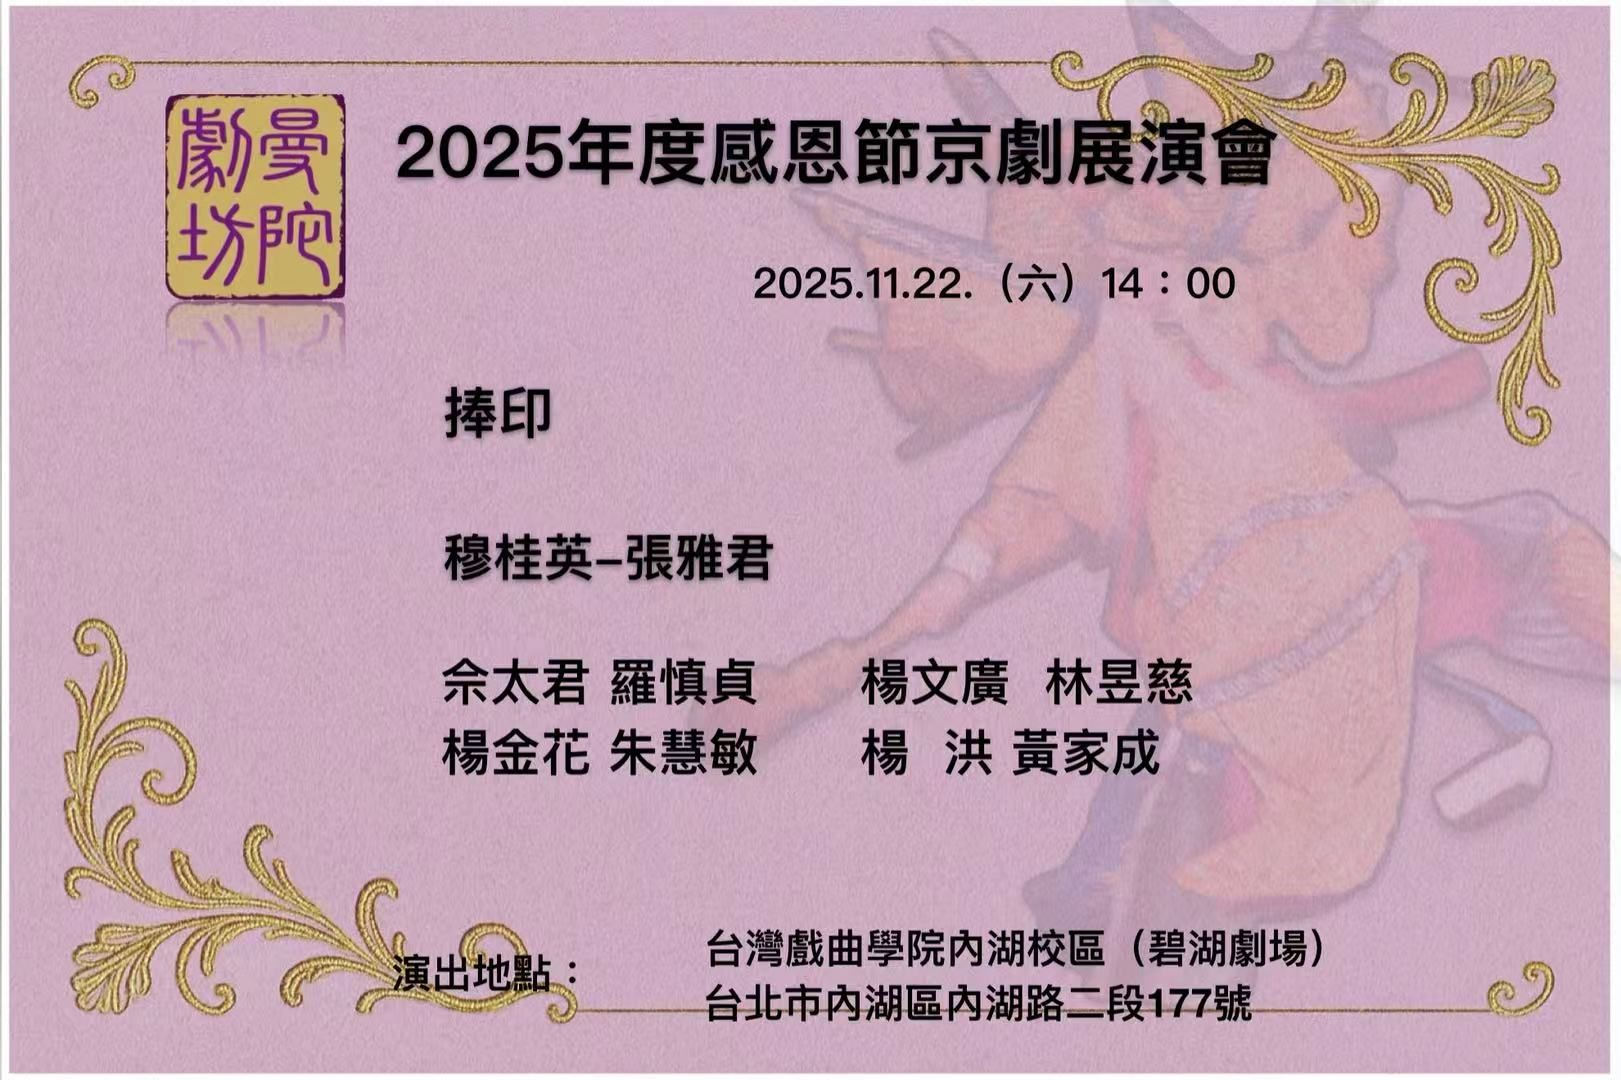
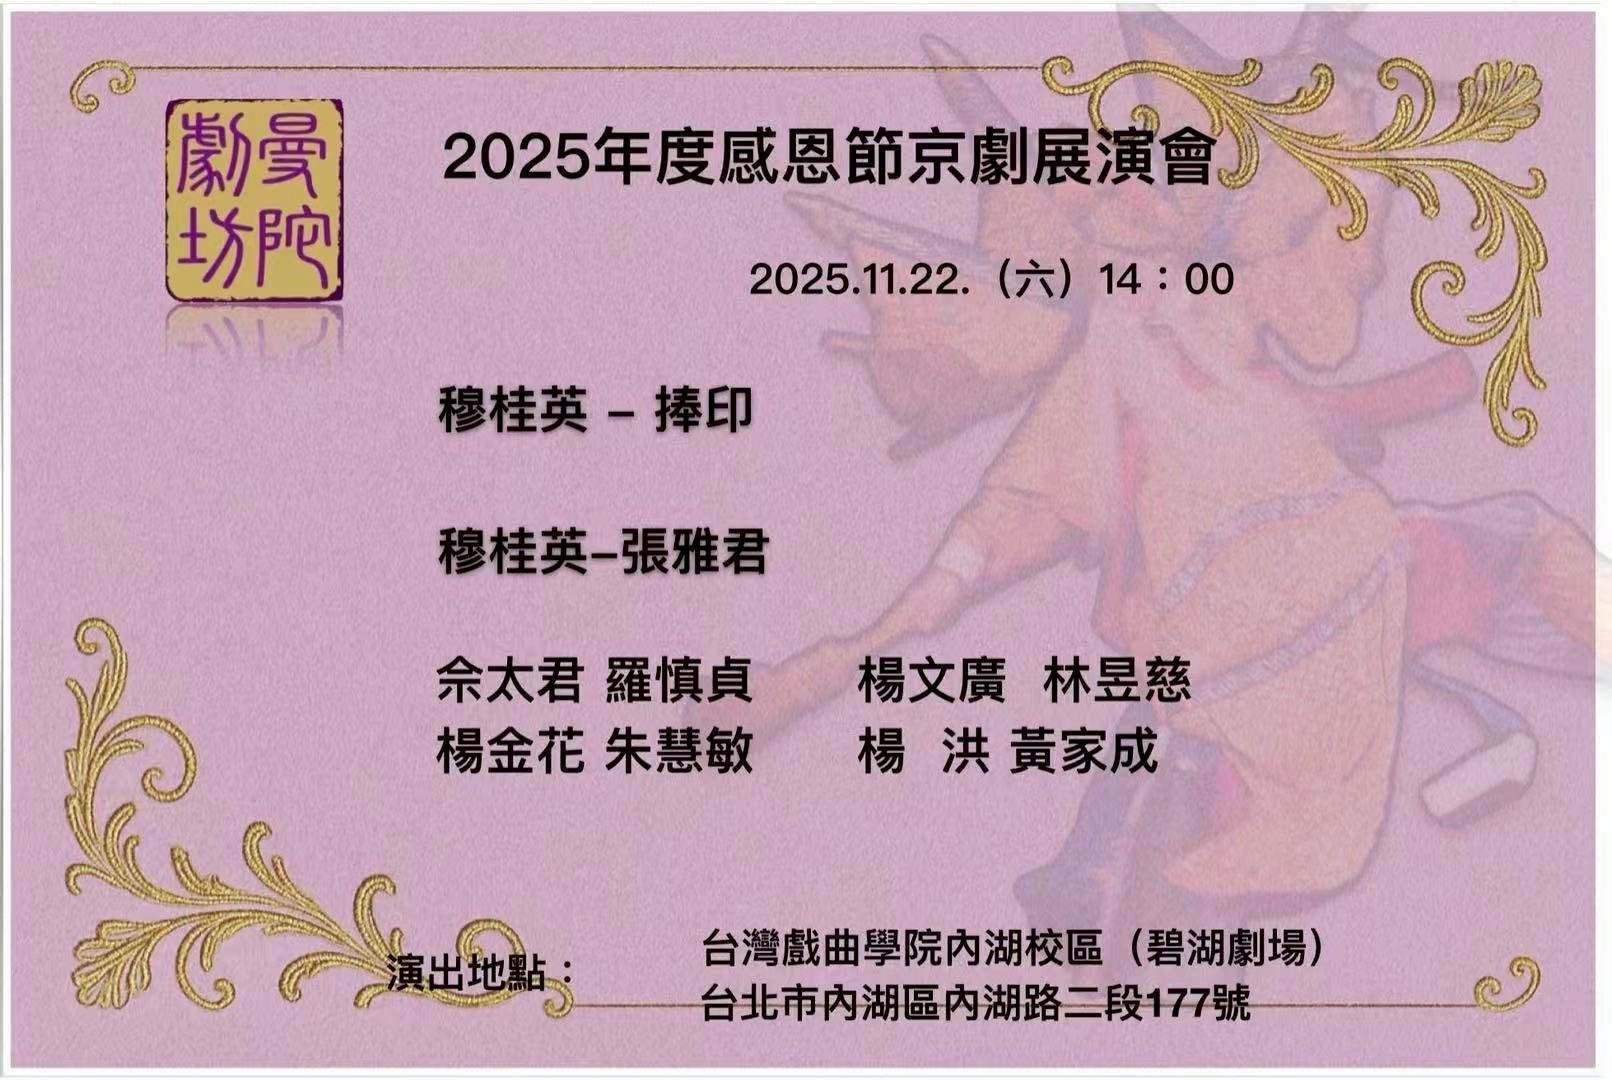
feat: 新增指導單位；更換圖片

diff --git a/page.html b/page.html
@@ -110,8 +110,8 @@
                     addHotspot(545, 525, 105, 55, "11"); // 張雅君
                     break;
                 case "2":
-                    // 製作團隊 - 回首頁ㄋ
-                    addHotspot(0, 0, 1122, 794, "1");
+                    // 製作團隊 - 到頁20指導單位
+                    addHotspot(0, 0, 1122, 794, "20");
                     break;
                 case "3":
                     addHotspot(380, 230, 340, 385, "1"); // 回首頁
@@ -124,6 +124,9 @@
                     addHotspot(750, 450, 250, 80, "18"); // 爛柯山-痴夢
                     addHotspot(750, 540, 250, 80, "19"); // 法場換子
                     break;
+                case "20":
+                    // 指導單位 - 回首頁
+                    addHotspot(0, 0, 1122, 794, "1");
                 default:
                     if (p == "6-1") {
                         // 如果是韓汝晶第一頁，到第二頁
@@ -141,14 +144,14 @@
             }
         }
 
-        // 預先載入所有 19 張圖片
+        // 預先載入所有 21 張圖片
         function preloadAllImages() {
-            for (let i = 1; i <= 19; i++) {
-                if (i == 16) {
+            for (let i = 1; i <= 20; i++) {
+                if (i == 6) {
                     // 韓汝晶的兩張圖片，特例處理
                     const img = new Image();
-                    img.src = `img/16-1.jpg`;
-                    img.src = `img/16-2.jpg`;
+                    img.src = `img/6-1.jpg`;
+                    img.src = `img/6-2.jpg`;
                 } else {
                     const img = new Image();
                     img.src = `img/${i}.jpg`;
